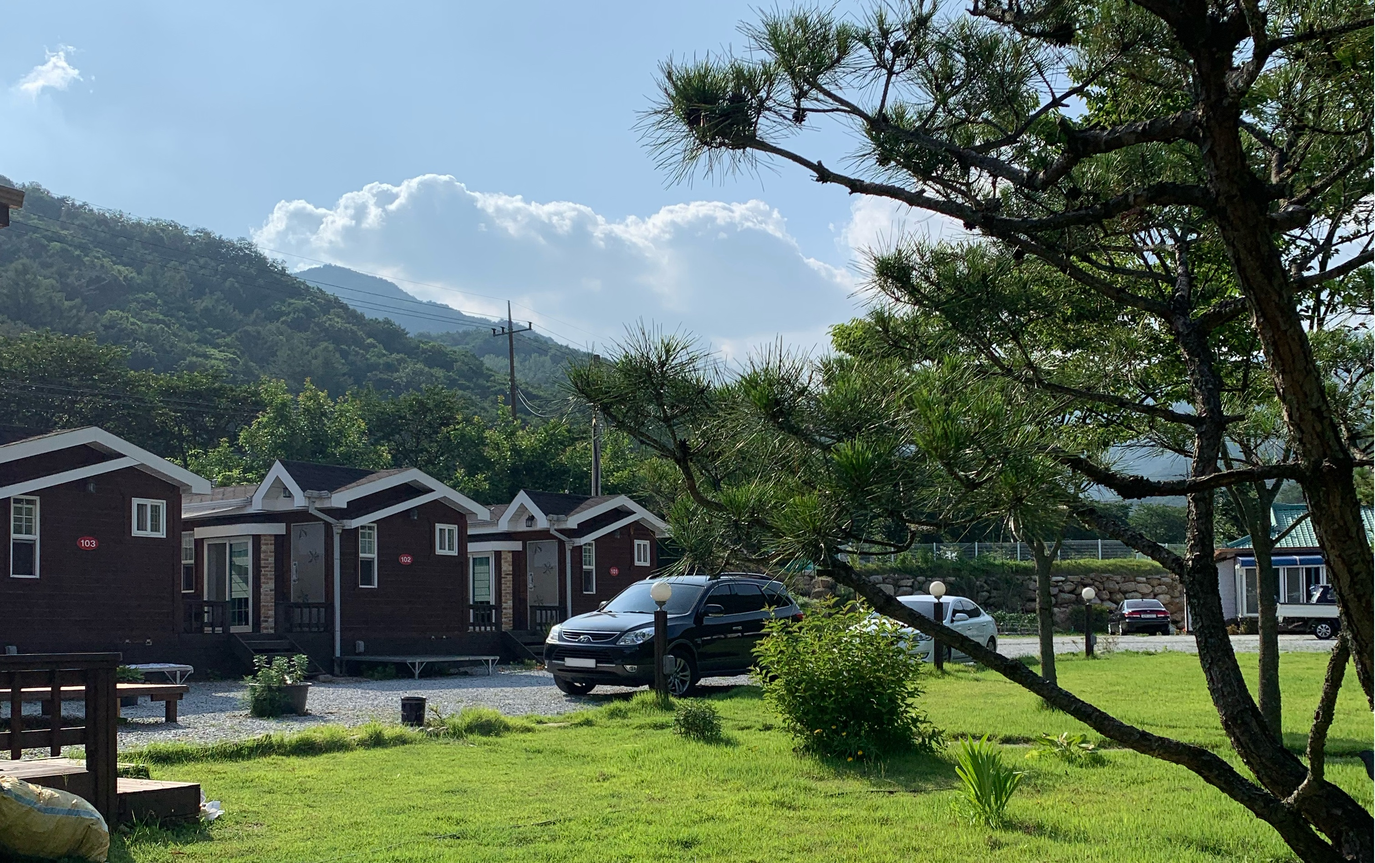
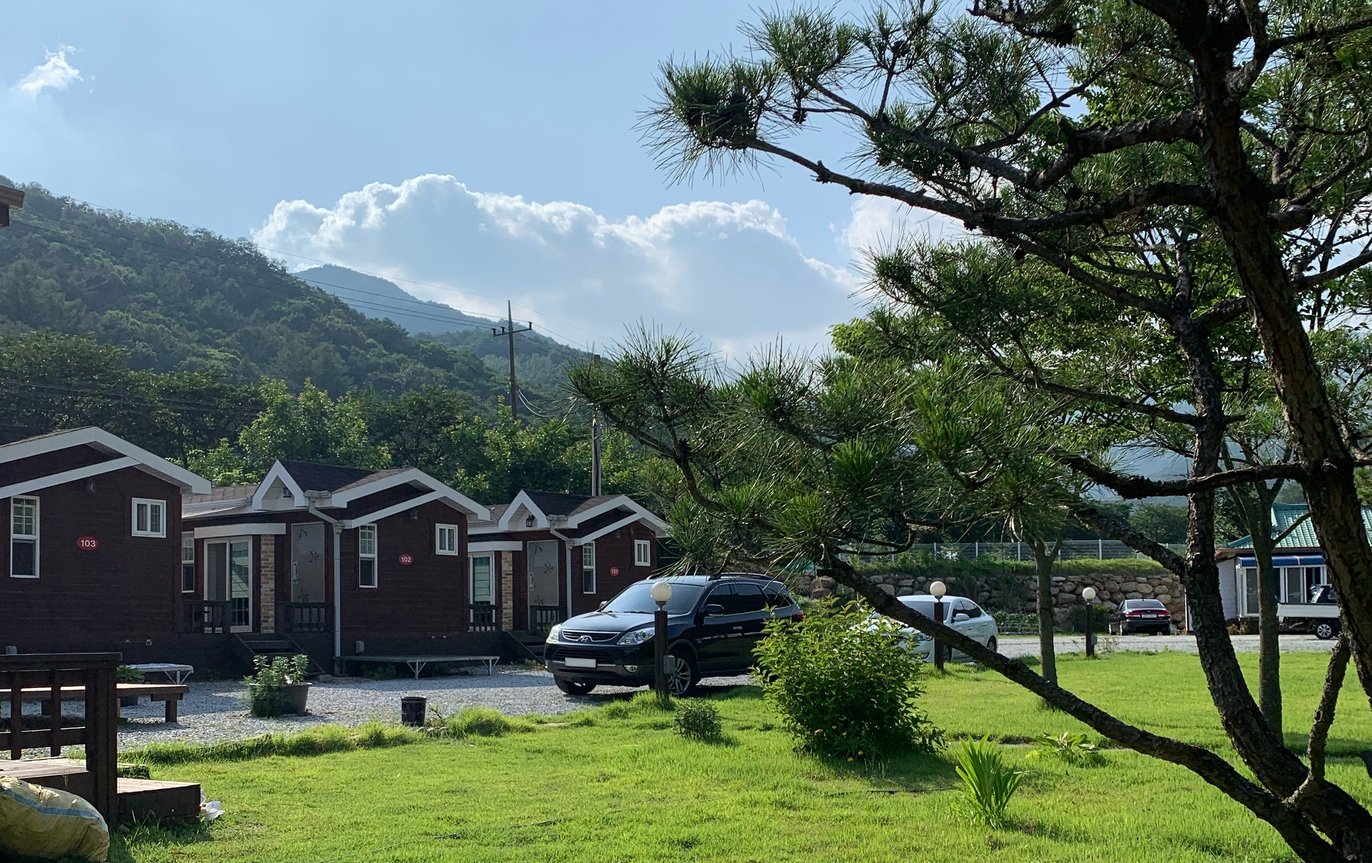
cdn 주소로 일부 변경

diff --git a/src/pages/Main.js b/src/pages/Main.js
@@ -135,39 +135,39 @@ const Main = (props) => {
                     <div className="tz-gallery">
                         <div className="row">
                             <div className="col-xs-12 col-sm-6 col-lg-6 col-xl-6">
-                                <img src="/main/main_list/1.jpg" onClick={openImageModal} />
+                                <img src="https://firebasestorage.googleapis.com/v0/b/jayeon-nuri.appspot.com/o/public%2Fmain%2Fmain_list%2F1.jpg?alt=media&token=40fe08e2-633b-4c26-8c2b-b2124c015215" onClick={openImageModal} />
                             </div>
                             <div className="col-xs-12 col-sm-6 col-lg-6 col-xl-6">
-                                <img src="/main/main_list/2.jpg" onClick={openImageModal} />
+                                <img src="https://firebasestorage.googleapis.com/v0/b/jayeon-nuri.appspot.com/o/public%2Fmain%2Fmain_list%2F2.jpg?alt=media&token=321097fe-a2cc-435b-a1da-f252380c01e1" onClick={openImageModal} />
                             </div>
                         </div>
                         <div className="row">
                             <div className="col-xs-12 col-sm-4 col-lg-4 col-xl-4">
-                                <img src="/main/main_list/3.jpg" onClick={openImageModal} />
+                                <img src="https://firebasestorage.googleapis.com/v0/b/jayeon-nuri.appspot.com/o/public%2Fmain%2Fmain_list%2F3.jpg?alt=media&token=1f59e794-5600-4ae1-b17d-1862888f723c" onClick={openImageModal} />
                             </div>
                             <div className="col-xs-12 col-sm-4 col-lg-4 col-xl-4">
-                                <img src="/main/main_list/4.jpg" onClick={openImageModal} />
+                                <img src="https://firebasestorage.googleapis.com/v0/b/jayeon-nuri.appspot.com/o/public%2Fmain%2Fmain_list%2F4.jpg?alt=media&token=715a99ec-c568-4683-b64f-e506b94b7a8e" onClick={openImageModal} />
                             </div>
                             <div className="col-xs-12 col-sm-4 col-lg-4 col-xl-4">
-                                <img src="/main/main_list/5.jpg" onClick={openImageModal} />
+                                <img src="https://firebasestorage.googleapis.com/v0/b/jayeon-nuri.appspot.com/o/public%2Fmain%2Fmain_list%2F5.jpg?alt=media&token=54756f29-d605-4242-b177-797a92ec346e" onClick={openImageModal} />
                             </div>
                         </div>
                         <div className='row'>
                             <div className="col-xs-12">
                                 <video id="summer_video" ref={videoRef} autoPlay muted loop>
-                                    <source src="/main/main_list/summer_video1.mp4" type="video/mp4" />
+                                    <source src="https://firebasestorage.googleapis.com/v0/b/jayeon-nuri.appspot.com/o/public%2Fmain%2Fmain_list%2Fsummer_video1.mp4?alt=media&token=ea95d2af-113a-4c81-9463-bea328aa2a39" type="video/mp4" />
                                 </video>
                             </div>
                         </div>
                         <div className="row">
                             <div className="col-xs-12 col-sm-4 col-lg-4 col-xl-4">
-                                <img src="/main/main_list/6.jpg" onClick={openImageModal} />
+                                <img src="https://firebasestorage.googleapis.com/v0/b/jayeon-nuri.appspot.com/o/public%2Fmain%2Fmain_list%2F6.jpg?alt=media&token=b30793e7-72ae-4a81-9926-0d1be4f5e445" onClick={openImageModal} />
                             </div>
                             <div className="col-xs-12 col-sm-4 col-lg-4 col-xl-4">
-                                <img src="/main/main_list/7.jpg" onClick={openImageModal} />
+                                <img src="https://firebasestorage.googleapis.com/v0/b/jayeon-nuri.appspot.com/o/public%2Fmain%2Fmain_list%2F7.jpg?alt=media&token=decd0c97-cb83-4d0f-8aae-9dc1a1716e3c" onClick={openImageModal} />
                             </div>
                             <div className="col-xs-12 col-sm-4 col-lg-4 col-xl-4">
-                                <img src="/main/main_list/8.jpg" onClick={openImageModal} />
+                                <img src="https://firebasestorage.googleapis.com/v0/b/jayeon-nuri.appspot.com/o/public%2Fmain%2Fmain_list%2F8.jpg?alt=media&token=7a120372-df70-4e46-bb91-7e737d704875" onClick={openImageModal} />
                             </div>
                         </div>
                     </div>
@@ -184,7 +184,7 @@ const Main = (props) => {
                                     <div>Happiness & Comfort</div>
                                     <div>행복한 여행을 만들어 드립니다</div>
                                     <div>
-                                        <img src="/main/bottom.jpg" />
+                                        <img src="https://firebasestorage.googleapis.com/v0/b/jayeon-nuri.appspot.com/o/public%2Fmain%2Fmain_list%2Fbottom.jpg?alt=media&token=360becab-b233-4a73-b5db-b057500b8e91" />
                                     </div>
                                 </div>
                             </td>

diff --git a/src/pages/Introduce.js b/src/pages/Introduce.js
@@ -11,7 +11,7 @@ function Introduce(props) {
     return (
         <>
             <div className="top_img">
-                <img src="/main/top/leaf1.jpg" />
+                <img src="https://firebasestorage.googleapis.com/v0/b/jayeon-nuri.appspot.com/o/public%2Fmain%2Ftop%2Fleaf1.jpg?alt=media&token=cac64197-4772-4c8e-8e0f-637d7a914e02" />
             </div>
 
             <div id="introduce_title"><FcCloseUpMode />&nbsp;자연누리를 소개합니다&nbsp;<FcCloseUpMode /></div>

diff --git a/src/pages/Caravan1.js b/src/pages/Caravan1.js
@@ -10,7 +10,7 @@ function Caravan1(props) {
     return (
         <>
             <div className="top_img">
-                <img src="/main/top/flower2.jpg" />
+                <img src="https://firebasestorage.googleapis.com/v0/b/jayeon-nuri.appspot.com/o/public%2Fmain%2Ftop%2Fflower2.jpg?alt=media&token=d130b841-3898-4c40-aa93-269db0a9b4c7" />
             </div>
 
             <div id="room_title"><FcLikePlaceholder />&nbsp;카라반 1호&nbsp;<FcLikePlaceholder /></div>

diff --git a/src/pages/Caravan2.js b/src/pages/Caravan2.js
@@ -10,7 +10,7 @@ function Caravan2(props) {
     return (
         <>
             <div className="top_img">
-                <img src="/main/top/flower2.jpg" />
+                <img src="https://firebasestorage.googleapis.com/v0/b/jayeon-nuri.appspot.com/o/public%2Fmain%2Ftop%2Fflower2.jpg?alt=media&token=d130b841-3898-4c40-aa93-269db0a9b4c7" />
             </div>
 
             <div id="room_title"><FcLikePlaceholder />&nbsp;카라반 2호&nbsp;<FcLikePlaceholder /></div>

diff --git a/src/pages/Caravan3.js b/src/pages/Caravan3.js
@@ -10,7 +10,7 @@ function Caravan3(props) {
     return (
         <>
             <div className="top_img">
-                <img src="/main/top/flower2.jpg" />
+                <img src="https://firebasestorage.googleapis.com/v0/b/jayeon-nuri.appspot.com/o/public%2Fmain%2Ftop%2Fflower2.jpg?alt=media&token=d130b841-3898-4c40-aa93-269db0a9b4c7" />
             </div>
 
             <div id="room_title"><FcLikePlaceholder />&nbsp;카라반 3호&nbsp;<FcLikePlaceholder /></div>

diff --git a/src/pages/Caravan4.js b/src/pages/Caravan4.js
@@ -10,7 +10,7 @@ function Caravan4(props) {
     return (
         <>
             <div className="top_img">
-                <img src="/main/top/flower2.jpg" />
+                <img src="https://firebasestorage.googleapis.com/v0/b/jayeon-nuri.appspot.com/o/public%2Fmain%2Ftop%2Fflower2.jpg?alt=media&token=d130b841-3898-4c40-aa93-269db0a9b4c7" />
             </div>
 
             <div id="room_title"><FcLikePlaceholder />&nbsp;카라반 4호&nbsp;<FcLikePlaceholder /></div>

diff --git a/src/pages/Room1.js b/src/pages/Room1.js
@@ -10,7 +10,7 @@ function Room1(props) {
     return (
         <>
             <div className="top_img">
-                <img src="/main/top/flower1.jpg" />
+                <img src="https://firebasestorage.googleapis.com/v0/b/jayeon-nuri.appspot.com/o/public%2Fmain%2Ftop%2Fflower1.jpg?alt=media&token=80e5da73-8f94-4ba6-8777-5513c8ecd379" />
             </div>
 
             <div id="room_title"><FcLike />&nbsp;객실 1,2,3 호&nbsp;<FcLike /></div>

diff --git a/src/pages/Room5.js b/src/pages/Room5.js
@@ -10,7 +10,7 @@ function Room5(props) {
     return (
         <>
             <div className="top_img">
-                <img src="/main/top/flower1.jpg" />
+                <img src="https://firebasestorage.googleapis.com/v0/b/jayeon-nuri.appspot.com/o/public%2Fmain%2Ftop%2Fflower1.jpg?alt=media&token=80e5da73-8f94-4ba6-8777-5513c8ecd379" />
             </div>
 
             <div id="room_title"><FcLike />&nbsp;객실 5,6 호&nbsp;<FcLike /></div>

diff --git a/src/pages/Notice.js b/src/pages/Notice.js
@@ -5,7 +5,7 @@ function Notice(props) {
     return (
         <>
             <div className="top_img">
-                <img src="/main/top/flower3.jpg" />
+                <img src="https://firebasestorage.googleapis.com/v0/b/jayeon-nuri.appspot.com/o/public%2Fmain%2Ftop%2Fflower3.jpg?alt=media&token=9315a1f7-a128-4887-b873-e1d69637682d" />
             </div>
         </>
     );

diff --git a/src/pages/TermsOfUse.js b/src/pages/TermsOfUse.js
@@ -5,7 +5,7 @@ function TermsOfUse(props) {
     return (
         <>
             <div className="top_img">
-                <img src="/main/top/leaf3.jpg" />
+                <img src="https://firebasestorage.googleapis.com/v0/b/jayeon-nuri.appspot.com/o/public%2Fmain%2Ftop%2Fleaf3.jpg?alt=media&token=fe64a929-2712-4ef1-815a-aeccc0d3af9a" />
             </div>
         </>
     );

diff --git a/src/pages/Reviews.js b/src/pages/Reviews.js
@@ -5,7 +5,7 @@ function Reviews(props) {
     return (
         <>
             <div className="top_img">
-                <img src="/main/top/cloud1.jpg" />
+                <img src="https://firebasestorage.googleapis.com/v0/b/jayeon-nuri.appspot.com/o/public%2Fmain%2Ftop%2Fcloud1.jpg?alt=media&token=09ebabcd-c29c-4db7-bb90-46afba8b1ebc" />
             </div>
         </>
     );

diff --git a/src/pages/WayToCome.js b/src/pages/WayToCome.js
@@ -5,7 +5,7 @@ function WayToCome(props) {
     return (
         <>
             <div className="top_img">
-                <img src="/main/top/leaf1.jpg" />
+                <img src="https://firebasestorage.googleapis.com/v0/b/jayeon-nuri.appspot.com/o/public%2Fmain%2Ftop%2Fleaf1.jpg?alt=media&token=cac64197-4772-4c8e-8e0f-637d7a914e02" />
             </div>
         </>
     );
